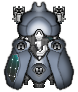
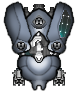
movement for ship, sprites

diff --git a/js/main.js b/js/main.js
@@ -3,19 +3,22 @@ let bullets = [];
 
 let invaderWave;
 let invaderSprite;
+let shipSprite;
+let canvas;
 
-let invaderRows = 3
-let invaderCols = 5
+let invaderRows = 4
+let invaderCols = 10
 
 
 function preload() {
- //invaderSprite = loadImage('images/invaderShip.png')
- invaderSprite = function() {
-  noStroke();
-  fill(255, 0, 200);
-  rectMode(CENTER);
-  ellipse(this.x, this.y, this.r, this.r);
-}
+ invaderSprite = loadImage('images/invaderShip.png')
+ // shipSprite = loadImage('archibalde_hawk.png')
+//  invaderSprite = function() {
+//   noStroke();
+//   fill(255, 0, 200);
+//   rectMode(CENTER);
+//   ellipse(this.x, this.y, this.r, this.r);
+// }
 //
 // console.log('load', invaderSprite);
 
@@ -23,19 +26,23 @@ function preload() {
 
 function setup() {
 // set up all the things that will be displayed
-  createCanvas(600, 500);
+  createCanvas(1000, 700);
+//  canvas = loadImage('images/space.jpg')
 
   // image(invaderSprite, 0, 0)
 
   ship = new Ship();
-  invaderWave = new InvaderWave(width/2, height/4, invaderRows, invaderCols);
+  invaderWave = new InvaderWave(width/2, height/4, invaderRows, invaderCols, invaderSprite);
   invaderWave.init();
 }
 
 
 function draw() {
-  background(0);
+
+   background(0);
+  //image(canvas, 0, 0)
   ship.show();
+  ship.move();
 
  invaderWave.render();
  invaderWave.update();
@@ -43,13 +50,7 @@ function draw() {
   for (let i = 0; i < bullets.length; i++) {
     bullets[i].show();
     bullets[i].move();
-//     for (let j = 0; j < invaders.length; j++) {
-//       if (bullets[i].hits(invaderWave[j])) {
-//         invaderWave[j].death();
-//         bullets[i].death();
-//       };
-   }
-// }
+}
 
 //   invaderWave.move();
 //   if  (invaderWave.x > width || invaderWave.x < 0) {
@@ -62,11 +63,11 @@ function draw() {
 //     edge = false;
 //   }
 //
-  for (let i = bullets.length-1; i >= 0; i--) {
-    if (bullets[i].destroy) {
-      bullets.splice(i, 1);
-    }
-  }
+//   for (let i = bullets.length-1; i >= 0; i--) {
+//     if (bullets[i].destroy) {
+//       bullets.splice(i, 1);
+//     }
+//   }
 //
 //       if (invaderWave.destroy) {
 //         invaders.splice(i, 1);
@@ -74,6 +75,11 @@ function draw() {
  }
 
 
+ function keyReleased() { // when we release a key
+   if(key != ' ') {
+     ship.setDir(0);  // set the ship direction speed to 0
+   }
+ }
 
 function keyPressed() {
 
@@ -83,8 +89,8 @@ function keyPressed() {
   }
 
     if (keyCode === RIGHT_ARROW) {
-      ship.move(1);
+      ship.setDir(1);
     } else if (keyCode === LEFT_ARROW) {
-      ship.move(-1);
+      ship.setDir(-1);
     };
   }

diff --git a/js/invader.js b/js/invader.js
@@ -1,17 +1,16 @@
-function Invader(x, y, r) {
+function Invader(x, y, r, sprite) {
   this.x = x;
   this.y = y;
   this.r = r;
 
   this.destroy = false;
-
+  this.sprite = sprite;
   this.xdir = 1;
 
   this.show = function() {
-    rectMode(CENTER);
-    ellipse( this.x, this.y, this.r, this.r)
+    imageMode(CENTER);
+    image(this.sprite, this.x, this.y, this.r, this.r)
     // noStroke();
-    fill(255, 0, 200);
     // rectMode(CENTER);
     // ellipse(this.x, this.y, this.r, this.r);
   }
@@ -25,13 +24,13 @@ function Invader(x, y, r) {
   //   this.y += this.r;
   // }
 
-  this.shoot = function(bullets, shootRate) {
-    if(random() < shootRate ) {
-      bullets.push(new Bullet(this.x, this.y, false));
-    }
-  }
-
-  this.death = function () {
-    this.destroy = true;
-  }
+  // this.shoot = function(bullets, shootRate) {
+  //   if(random() < shootRate ) {
+  //     bullets.push(new Bullet(this.x, this.y, false));
+  //   }
+  // }
+  //
+  // this.death = function () {
+  //   this.destroy = true;
+  // }
 }

diff --git a/js/ship.js b/js/ship.js
@@ -1,13 +1,20 @@
 function Ship() {
   this.x = width/2;
+  this.xdir = 0;
 
   this.show = function() {
     fill(255);
     rectMode(CENTER);
+    // imageMode(CENTER);
+    // image(this.sprite, this.x, height-20, this.r, this.r);
     rect(this.x, height-20, 20, 20);
   }
 
+  this.setDir = function(dir) {
+    this.xdir = dir;
+  }
+
   this.move = function(dir) {
-    this.x += dir*17;
+    this.x += this.xdir*7;
   }
 }

diff --git a/js/invaderWave.js b/js/invaderWave.js
@@ -8,8 +8,8 @@ function InvaderWave(x, y, row, col, sprite) {
   this.cols = col;
 
   this.aliens; // This is here as a reference.
-  this.alienRadius = 20;
-  this.alienSpacing = 1.5;
+  this.alienRadius = 40;
+  this.alienSpacing = 1.3;
 
   this.xSpeed = 1;
   this.speedIncrease = 0.05;
